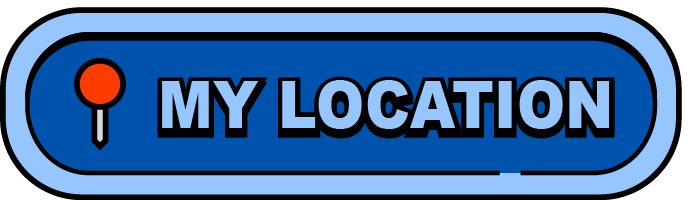
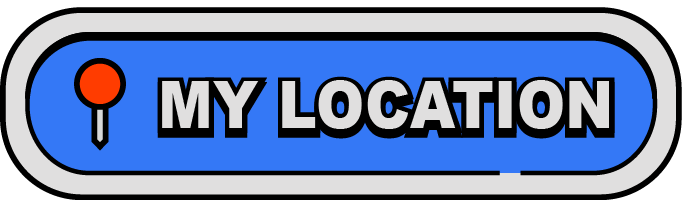
damn nvm

diff --git a/public/index.html b/public/index.html
@@ -29,10 +29,6 @@
         <button id="myGerobakBtn" class="image-btn" onclick="showMyPublicProfile()">
             <img id="imgBtnMyGerobak" src="image/btn-mygerobak.png" alt="Gerobak Saya">
         </button>
-
-        <button id="customerLocBtn" class="image-btn" onclick="enableCustomerLocation()">
-            <img id="imgMyLoc" src="image/btn-mylocation.png" alt="📍 Lokasi Saya">
-        </button>
         
         <button id="btnSearch" class="image-btn" onclick="openSearch()">
             <img id="imgBtnSearch" src="image/btn-search.png" alt="Cari Gerobak 🔎">
@@ -73,6 +69,10 @@
 
 <div id="mapContainer">
   <div id="map"></div>
+
+    <button id="customerLocBtn" class="image-btn" onclick="enableCustomerLocation()">
+        <img id="imgMyLoc" src="image/btn-mylocation.png" alt="📍 Lokasi Saya">
+    </button>
 </div>
 
 <div id="searchOverlay">

diff --git a/public/style.css b/public/style.css
@@ -236,11 +236,19 @@ h2#dNama {
 
 /* (LOKASI SAYA) */
 #customerLocBtn.image-btn img {
-    height: 35px;
+    height: 37px;
     width: auto;
     object-fit: contain;
     transition: transform 0.2s ease; }
 #customerLocBtn.image-btn:active img { transform: scale(0.92); }
+
+  #customerLocBtn {
+    position: fixed; 
+    bottom: 25px; 
+    right: 25px; 
+    z-index: 999;
+    width: auto;
+  }
 
 /* (LANGUAGE) */
 #imgLangBtn {
